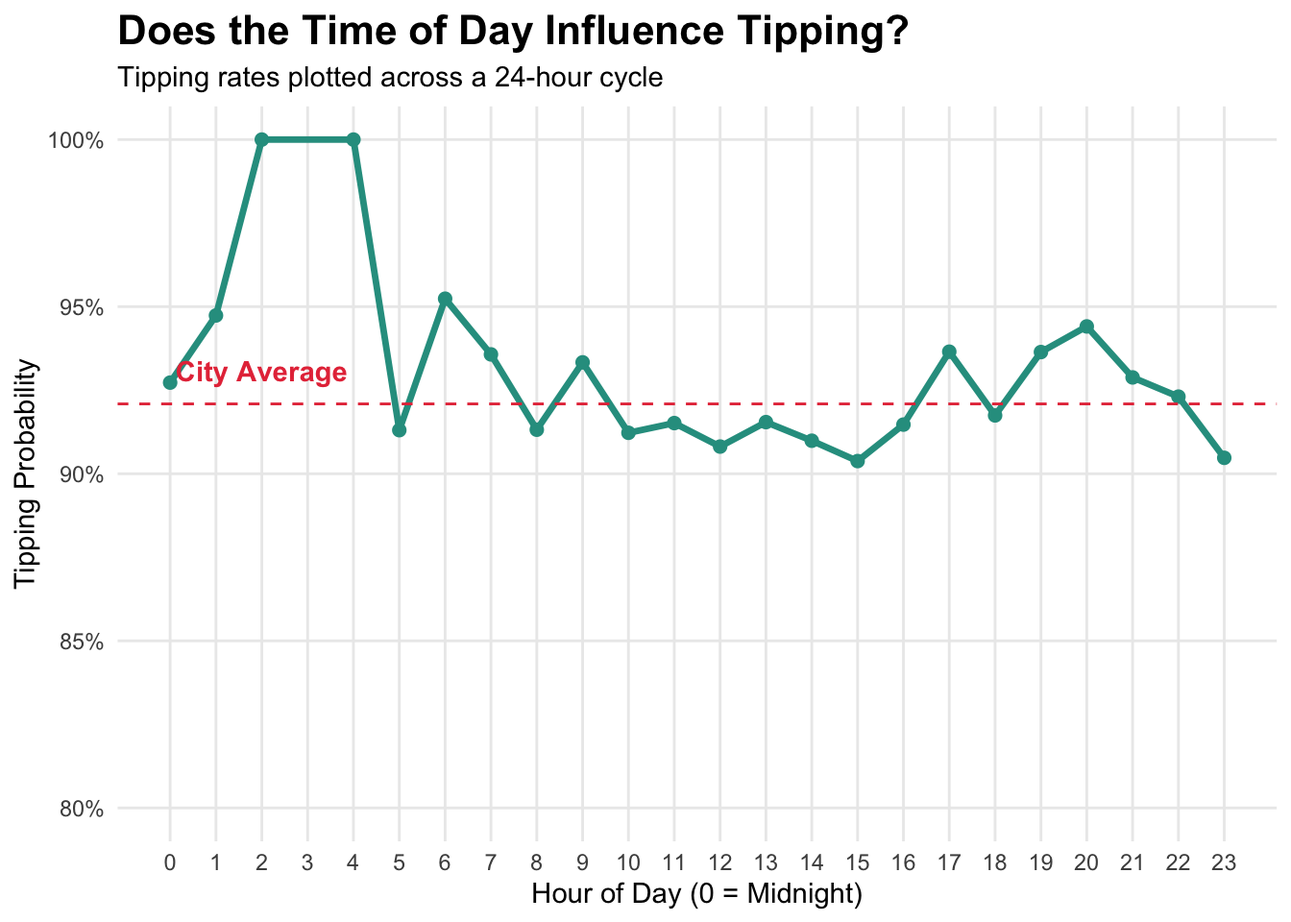
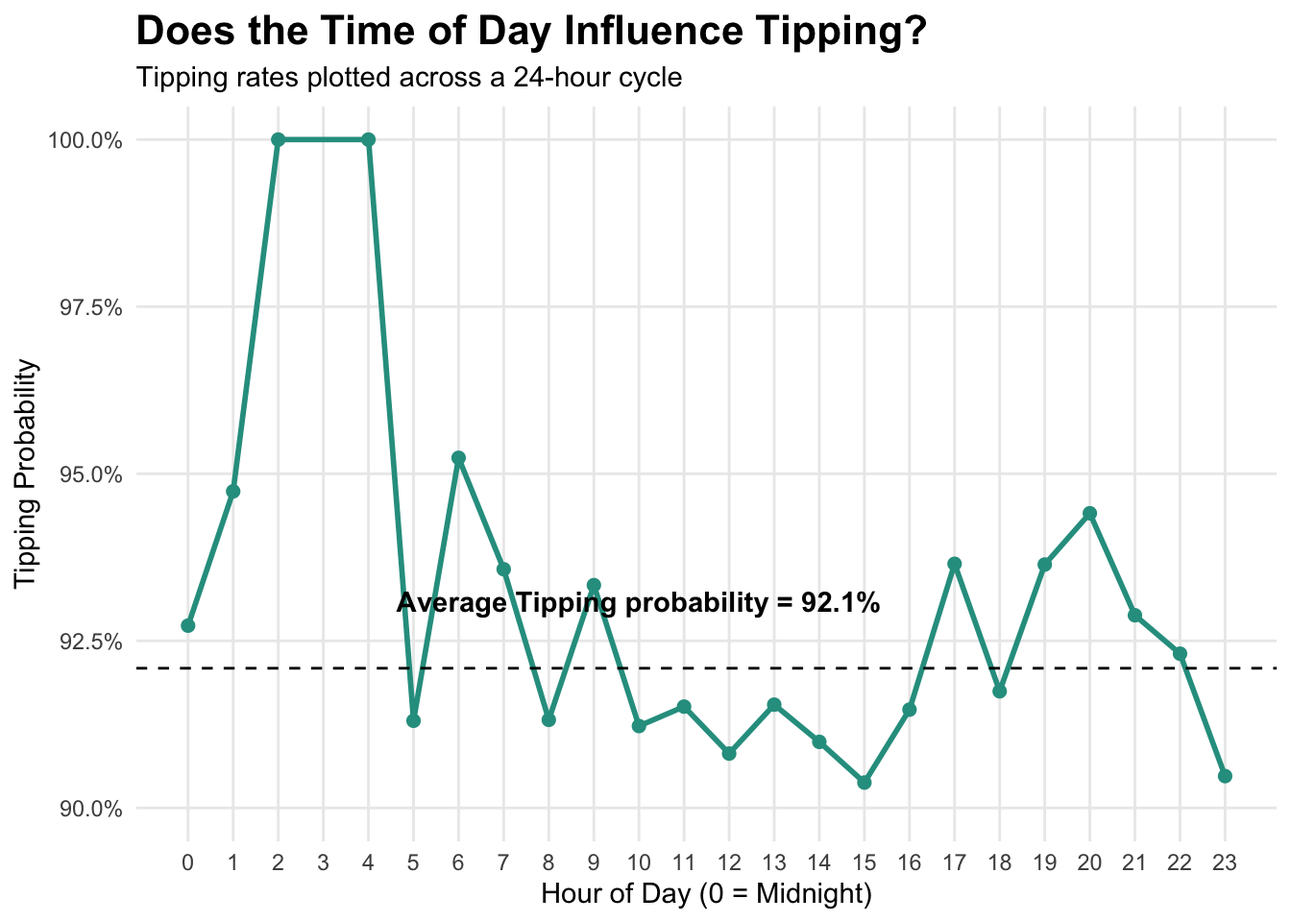
completed analysis of all 3 questions

diff --git a/index.html b/index.html
@@ -21,41 +21,6 @@ ul.task-list li input[type="checkbox"] {
   margin: 0 0.8em 0.2em -1em; /* quarto-specific, see https://github.com/quarto-dev/quarto-cli/issues/4556 */ 
   vertical-align: middle;
 }
-/* CSS for syntax highlighting */
-html { -webkit-text-size-adjust: 100%; }
-pre > code.sourceCode { white-space: pre; position: relative; }
-pre > code.sourceCode > span { display: inline-block; line-height: 1.25; }
-pre > code.sourceCode > span:empty { height: 1.2em; }
-.sourceCode { overflow: visible; }
-code.sourceCode > span { color: inherit; text-decoration: inherit; }
-div.sourceCode { margin: 1em 0; }
-pre.sourceCode { margin: 0; }
-@media screen {
-div.sourceCode { overflow: auto; }
-}
-@media print {
-pre > code.sourceCode { white-space: pre-wrap; }
-pre > code.sourceCode > span { text-indent: -5em; padding-left: 5em; }
-}
-pre.numberSource code
-  { counter-reset: source-line 0; }
-pre.numberSource code > span
-  { position: relative; left: -4em; counter-increment: source-line; }
-pre.numberSource code > span > a:first-child::before
-  { content: counter(source-line);
-    position: relative; left: -1em; text-align: right; vertical-align: baseline;
-    border: none; display: inline-block;
-    -webkit-touch-callout: none; -webkit-user-select: none;
-    -khtml-user-select: none; -moz-user-select: none;
-    -ms-user-select: none; user-select: none;
-    padding: 0 4px; width: 4em;
-  }
-pre.numberSource { margin-left: 3em;  padding-left: 4px; }
-div.sourceCode
-  {   }
-@media screen {
-pre > code.sourceCode > span > a:first-child::before { text-decoration: underline; }
-}
 </style>
 
 
@@ -115,21 +80,20 @@ pre > code.sourceCode > span > a:first-child::before { text-decoration: underlin
 </section>
 <section id="packages" class="level2">
 <h2 class="anchored" data-anchor-id="packages">Packages</h2>
-<div class="cell">
-<div class="sourceCode cell-code" id="cb1"><pre class="sourceCode r code-with-copy"><code class="sourceCode r"><span id="cb1-1"><a href="#cb1-1" aria-hidden="true" tabindex="-1"></a><span class="fu">library</span>(tidyverse)</span>
-<span id="cb1-2"><a href="#cb1-2" aria-hidden="true" tabindex="-1"></a><span class="fu">library</span>(tidymodels)</span>
-<span id="cb1-3"><a href="#cb1-3" aria-hidden="true" tabindex="-1"></a><span class="fu">library</span>(scales)</span></code><button title="Copy to Clipboard" class="code-copy-button"><i class="bi"></i></button></pre></div>
-</div>
+<p>For this <strong>Analysis of Chicago Taxi Trips,</strong> we are using the following packages:</p>
+<ol type="1">
+<li><p><code>tidyverse</code></p></li>
+<li><p><code>tidymodels</code></p></li>
+<li><p><code>scales</code></p></li>
+</ol>
 </section>
 <section id="data-frame" class="level2">
 <h2 class="anchored" data-anchor-id="data-frame">Data Frame</h2>
-<div class="cell">
-<div class="sourceCode cell-code" id="cb2"><pre class="sourceCode r code-with-copy"><code class="sourceCode r"><span id="cb2-1"><a href="#cb2-1" aria-hidden="true" tabindex="-1"></a><span class="fu">library</span>(modeldata)</span></code><button title="Copy to Clipboard" class="code-copy-button"><i class="bi"></i></button></pre></div>
-</div>
+<p>The dataframe that we are using in this analysis is prepackaged in the R library <code>modeldata</code></p>
 <section id="summarize-and-glimpse-of-the-dataset" class="level3">
 <h3 class="anchored" data-anchor-id="summarize-and-glimpse-of-the-dataset">Summarize and glimpse of the dataset</h3>
+<p>The <code>taxi</code> dataframe has <strong>10000</strong> rows and <strong>7</strong> columns.</p>
 <div class="cell">
-<div class="sourceCode cell-code" id="cb3"><pre class="sourceCode r code-with-copy"><code class="sourceCode r"><span id="cb3-1"><a href="#cb3-1" aria-hidden="true" tabindex="-1"></a><span class="fu">glimpse</span>(taxi)</span></code><button title="Copy to Clipboard" class="code-copy-button"><i class="bi"></i></button></pre></div>
 <div class="cell-output cell-output-stdout">
 <pre><code>Rows: 10,000
 Columns: 7
@@ -142,23 +106,11 @@ $ month    &lt;fct&gt; Feb, Mar, Feb, Apr, Mar, Apr, Mar, Jan, Apr, Mar, Mar, Ap
 $ hour     &lt;int&gt; 16, 8, 18, 8, 21, 23, 12, 6, 12, 14, 18, 11, 12, 19, 17, 13, …</code></pre>
 </div>
 </div>
-<p>The <code>taxi</code> dataframe has <strong>10000</strong> rows and <strong>7</strong> columns.</p>
 </section>
 </section>
 <section id="is-there-there-a-relationship-between-the-distance-in-miles-someone-travels-in-a-taxi-and-if-they-tip-or-not" class="level2">
 <h2 class="anchored" data-anchor-id="is-there-there-a-relationship-between-the-distance-in-miles-someone-travels-in-a-taxi-and-if-they-tip-or-not">Is there there a relationship between the distance (in miles) someone travels in a taxi and if they tip or not?</h2>
 <div class="cell">
-<div class="sourceCode cell-code" id="cb5"><pre class="sourceCode r code-with-copy"><code class="sourceCode r"><span id="cb5-1"><a href="#cb5-1" aria-hidden="true" tabindex="-1"></a><span class="co"># Visualization</span></span>
-<span id="cb5-2"><a href="#cb5-2" aria-hidden="true" tabindex="-1"></a><span class="fu">ggplot</span>(taxi, <span class="fu">aes</span>(<span class="at">x =</span> tip, <span class="at">y =</span> distance, <span class="at">fill =</span> tip)) <span class="sc">+</span></span>
-<span id="cb5-3"><a href="#cb5-3" aria-hidden="true" tabindex="-1"></a>  <span class="fu">geom_boxplot</span>() <span class="sc">+</span></span>
-<span id="cb5-4"><a href="#cb5-4" aria-hidden="true" tabindex="-1"></a>  <span class="fu">labs</span>(<span class="at">title =</span> <span class="st">"Relationship between Trip Distance and Tipping"</span>,</span>
-<span id="cb5-5"><a href="#cb5-5" aria-hidden="true" tabindex="-1"></a>       <span class="at">x =</span> <span class="st">"Did the passenger tip?"</span>,</span>
-<span id="cb5-6"><a href="#cb5-6" aria-hidden="true" tabindex="-1"></a>       <span class="at">y =</span> <span class="st">"Distance (miles)"</span>) <span class="sc">+</span></span>
-<span id="cb5-7"><a href="#cb5-7" aria-hidden="true" tabindex="-1"></a>  <span class="fu">theme_minimal</span>() <span class="sc">+</span></span>
-<span id="cb5-8"><a href="#cb5-8" aria-hidden="true" tabindex="-1"></a>  <span class="fu">theme</span>(</span>
-<span id="cb5-9"><a href="#cb5-9" aria-hidden="true" tabindex="-1"></a>    <span class="at">panel.grid.minor =</span> <span class="fu">element_blank</span>(),</span>
-<span id="cb5-10"><a href="#cb5-10" aria-hidden="true" tabindex="-1"></a>    <span class="at">plot.title =</span> <span class="fu">element_text</span>(<span class="at">face =</span> <span class="st">"bold"</span>, <span class="at">size =</span> <span class="dv">16</span>)</span>
-<span id="cb5-11"><a href="#cb5-11" aria-hidden="true" tabindex="-1"></a>  )</span></code><button title="Copy to Clipboard" class="code-copy-button"><i class="bi"></i></button></pre></div>
 <div class="cell-output-display">
 <div>
 <figure class="figure">
@@ -166,12 +118,6 @@ $ hour     &lt;int&gt; 16, 8, 18, 8, 21, 23, 12, 6, 12, 14, 18, 11, 12, 19, 17, 
 </figure>
 </div>
 </div>
-<div class="sourceCode cell-code" id="cb6"><pre class="sourceCode r code-with-copy"><code class="sourceCode r"><span id="cb6-1"><a href="#cb6-1" aria-hidden="true" tabindex="-1"></a><span class="co"># Summary Table</span></span>
-<span id="cb6-2"><a href="#cb6-2" aria-hidden="true" tabindex="-1"></a>mean_median_distance_tipping <span class="ot">&lt;-</span> taxi <span class="sc">|&gt;</span></span>
-<span id="cb6-3"><a href="#cb6-3" aria-hidden="true" tabindex="-1"></a>  <span class="fu">group_by</span>(tip) <span class="sc">|&gt;</span></span>
-<span id="cb6-4"><a href="#cb6-4" aria-hidden="true" tabindex="-1"></a>  <span class="fu">summarize</span>(<span class="at">mean_dist =</span> <span class="fu">mean</span>(distance, <span class="at">na.rm =</span> <span class="cn">TRUE</span>),</span>
-<span id="cb6-5"><a href="#cb6-5" aria-hidden="true" tabindex="-1"></a>            <span class="at">median_dist =</span> <span class="fu">median</span>(distance, <span class="at">na.rm =</span> <span class="cn">TRUE</span>),</span>
-<span id="cb6-6"><a href="#cb6-6" aria-hidden="true" tabindex="-1"></a>            <span class="at">n =</span> <span class="fu">n</span>())</span></code><button title="Copy to Clipboard" class="code-copy-button"><i class="bi"></i></button></pre></div>
 </div>
 <section id="analysis-of-distance-vs.-tipping" class="level3">
 <h3 class="anchored" data-anchor-id="analysis-of-distance-vs.-tipping">Analysis of Distance vs.&nbsp;Tipping</h3>
@@ -186,63 +132,6 @@ $ hour     &lt;int&gt; 16, 8, 18, 8, 21, 23, 12, 6, 12, 14, 18, 11, 12, 19, 17, 
 <section id="do-taxi-passengers-tend-to-tip-more-for-the-company-chicago-independents-than-the-other-companies" class="level2">
 <h2 class="anchored" data-anchor-id="do-taxi-passengers-tend-to-tip-more-for-the-company-chicago-independents-than-the-other-companies">Do taxi passengers tend to tip more for the company Chicago Independents than the other companies?</h2>
 <div class="cell">
-<div class="sourceCode cell-code" id="cb7"><pre class="sourceCode r code-with-copy"><code class="sourceCode r"><span id="cb7-1"><a href="#cb7-1" aria-hidden="true" tabindex="-1"></a><span class="co"># 1. Calculate the overall city average rate (as a decimal)</span></span>
-<span id="cb7-2"><a href="#cb7-2" aria-hidden="true" tabindex="-1"></a>overall_rate <span class="ot">&lt;-</span> <span class="fu">mean</span>(taxi<span class="sc">$</span>tip <span class="sc">==</span> <span class="st">"yes"</span>)</span>
-<span id="cb7-3"><a href="#cb7-3" aria-hidden="true" tabindex="-1"></a></span>
-<span id="cb7-4"><a href="#cb7-4" aria-hidden="true" tabindex="-1"></a><span class="co"># 2. Calculate the tipping rate per company for the labels</span></span>
-<span id="cb7-5"><a href="#cb7-5" aria-hidden="true" tabindex="-1"></a>company_stats <span class="ot">&lt;-</span> taxi <span class="sc">|&gt;</span></span>
-<span id="cb7-6"><a href="#cb7-6" aria-hidden="true" tabindex="-1"></a>  <span class="fu">group_by</span>(company) <span class="sc">|&gt;</span></span>
-<span id="cb7-7"><a href="#cb7-7" aria-hidden="true" tabindex="-1"></a>  <span class="fu">summarize</span>(</span>
-<span id="cb7-8"><a href="#cb7-8" aria-hidden="true" tabindex="-1"></a>    <span class="at">total_rides =</span> <span class="fu">n</span>(),</span>
-<span id="cb7-9"><a href="#cb7-9" aria-hidden="true" tabindex="-1"></a>    <span class="at">yes_count =</span> <span class="fu">sum</span>(tip <span class="sc">==</span> <span class="st">"yes"</span>),</span>
-<span id="cb7-10"><a href="#cb7-10" aria-hidden="true" tabindex="-1"></a>    <span class="at">tip_rate =</span> yes_count <span class="sc">/</span> total_rides</span>
-<span id="cb7-11"><a href="#cb7-11" aria-hidden="true" tabindex="-1"></a>  )</span>
-<span id="cb7-12"><a href="#cb7-12" aria-hidden="true" tabindex="-1"></a></span>
-<span id="cb7-13"><a href="#cb7-13" aria-hidden="true" tabindex="-1"></a>company_stats <span class="ot">&lt;-</span> company_stats <span class="sc">|&gt;</span> </span>
-<span id="cb7-14"><a href="#cb7-14" aria-hidden="true" tabindex="-1"></a>  <span class="fu">arrange</span>(<span class="fu">desc</span>(tip_rate))</span>
-<span id="cb7-15"><a href="#cb7-15" aria-hidden="true" tabindex="-1"></a></span>
-<span id="cb7-16"><a href="#cb7-16" aria-hidden="true" tabindex="-1"></a><span class="co"># 3. Create the Proportional Plot</span></span>
-<span id="cb7-17"><a href="#cb7-17" aria-hidden="true" tabindex="-1"></a><span class="fu">ggplot</span>(taxi, <span class="fu">aes</span>(<span class="at">y =</span> company, <span class="at">fill =</span> tip)) <span class="sc">+</span></span>
-<span id="cb7-18"><a href="#cb7-18" aria-hidden="true" tabindex="-1"></a>  <span class="co"># Create the proportional bars</span></span>
-<span id="cb7-19"><a href="#cb7-19" aria-hidden="true" tabindex="-1"></a>  <span class="fu">geom_bar</span>(<span class="at">position =</span> <span class="st">"fill"</span>) <span class="sc">+</span></span>
-<span id="cb7-20"><a href="#cb7-20" aria-hidden="true" tabindex="-1"></a>  <span class="co"># Add the tip rate labels onto each bar</span></span>
-<span id="cb7-21"><a href="#cb7-21" aria-hidden="true" tabindex="-1"></a>  <span class="fu">geom_text</span>(</span>
-<span id="cb7-22"><a href="#cb7-22" aria-hidden="true" tabindex="-1"></a>    <span class="at">data =</span> company_stats,</span>
-<span id="cb7-23"><a href="#cb7-23" aria-hidden="true" tabindex="-1"></a>    <span class="fu">aes</span>(<span class="at">y =</span> company, <span class="at">x =</span> <span class="fl">0.5</span>, <span class="at">label =</span> <span class="fu">percent</span>(tip_rate, <span class="at">accuracy =</span> <span class="fl">0.1</span>)),</span>
-<span id="cb7-24"><a href="#cb7-24" aria-hidden="true" tabindex="-1"></a>    <span class="at">inherit.aes =</span> <span class="cn">FALSE</span>,</span>
-<span id="cb7-25"><a href="#cb7-25" aria-hidden="true" tabindex="-1"></a>    <span class="at">color =</span> <span class="st">"white"</span>,</span>
-<span id="cb7-26"><a href="#cb7-26" aria-hidden="true" tabindex="-1"></a>    <span class="at">fontface =</span> <span class="st">"bold"</span>,</span>
-<span id="cb7-27"><a href="#cb7-27" aria-hidden="true" tabindex="-1"></a>    <span class="at">size =</span> <span class="dv">4</span></span>
-<span id="cb7-28"><a href="#cb7-28" aria-hidden="true" tabindex="-1"></a>  ) <span class="sc">+</span></span>
-<span id="cb7-29"><a href="#cb7-29" aria-hidden="true" tabindex="-1"></a>  <span class="co"># Add the vertical line for the city average</span></span>
-<span id="cb7-30"><a href="#cb7-30" aria-hidden="true" tabindex="-1"></a>  <span class="fu">geom_vline</span>(<span class="at">xintercept =</span> overall_rate, <span class="at">linetype =</span> <span class="st">"dashed"</span>, <span class="at">color =</span> <span class="st">"white"</span>, <span class="at">size =</span> <span class="dv">1</span>) <span class="sc">+</span></span>
-<span id="cb7-31"><a href="#cb7-31" aria-hidden="true" tabindex="-1"></a>  <span class="co"># Annotate the line with the numerical value</span></span>
-<span id="cb7-32"><a href="#cb7-32" aria-hidden="true" tabindex="-1"></a>  <span class="fu">annotate</span>(</span>
-<span id="cb7-33"><a href="#cb7-33" aria-hidden="true" tabindex="-1"></a>    <span class="st">"text"</span>, </span>
-<span id="cb7-34"><a href="#cb7-34" aria-hidden="true" tabindex="-1"></a>    <span class="at">x =</span> overall_rate, </span>
-<span id="cb7-35"><a href="#cb7-35" aria-hidden="true" tabindex="-1"></a>    <span class="at">y =</span> <span class="fl">0.5</span>, </span>
-<span id="cb7-36"><a href="#cb7-36" aria-hidden="true" tabindex="-1"></a>    <span class="at">label =</span> <span class="fu">paste0</span>(<span class="st">"City Average = "</span>, <span class="fu">percent</span>(overall_rate, <span class="at">accuracy =</span> <span class="fl">0.1</span>)),</span>
-<span id="cb7-37"><a href="#cb7-37" aria-hidden="true" tabindex="-1"></a>    <span class="at">color =</span> <span class="st">"black"</span>, </span>
-<span id="cb7-38"><a href="#cb7-38" aria-hidden="true" tabindex="-1"></a>    <span class="at">vjust =</span> <span class="sc">-</span><span class="fl">0.5</span>, </span>
-<span id="cb7-39"><a href="#cb7-39" aria-hidden="true" tabindex="-1"></a>    <span class="at">hjust =</span> <span class="sc">-</span><span class="fl">0.5</span>,</span>
-<span id="cb7-40"><a href="#cb7-40" aria-hidden="true" tabindex="-1"></a>    <span class="at">angle =</span> <span class="dv">90</span>,</span>
-<span id="cb7-41"><a href="#cb7-41" aria-hidden="true" tabindex="-1"></a>    <span class="at">fontface =</span> <span class="st">"bold"</span></span>
-<span id="cb7-42"><a href="#cb7-42" aria-hidden="true" tabindex="-1"></a>  ) <span class="sc">+</span></span>
-<span id="cb7-43"><a href="#cb7-43" aria-hidden="true" tabindex="-1"></a>  <span class="co"># Clean up scales and labels</span></span>
-<span id="cb7-44"><a href="#cb7-44" aria-hidden="true" tabindex="-1"></a>  <span class="fu">scale_x_continuous</span>(<span class="at">labels =</span> percent) <span class="sc">+</span></span>
-<span id="cb7-45"><a href="#cb7-45" aria-hidden="true" tabindex="-1"></a>  <span class="fu">scale_fill_manual</span>(<span class="at">values =</span> <span class="fu">c</span>(<span class="st">"no"</span> <span class="ot">=</span> <span class="st">"#E63946"</span>, <span class="st">"yes"</span> <span class="ot">=</span> <span class="st">"#2A9D8F"</span>)) <span class="sc">+</span> <span class="co"># Clean vector-style colors</span></span>
-<span id="cb7-46"><a href="#cb7-46" aria-hidden="true" tabindex="-1"></a>  <span class="fu">labs</span>(</span>
-<span id="cb7-47"><a href="#cb7-47" aria-hidden="true" tabindex="-1"></a>    <span class="at">title =</span> <span class="st">"Tipping Rate Comparison by Company"</span>,</span>
-<span id="cb7-48"><a href="#cb7-48" aria-hidden="true" tabindex="-1"></a>    <span class="at">subtitle =</span> <span class="st">"Is Chicago Independents outperforming the city average?"</span>,</span>
-<span id="cb7-49"><a href="#cb7-49" aria-hidden="true" tabindex="-1"></a>    <span class="at">x =</span> <span class="st">"Proportion of Trips"</span>,</span>
-<span id="cb7-50"><a href="#cb7-50" aria-hidden="true" tabindex="-1"></a>    <span class="at">y =</span> <span class="st">"Taxi Company"</span>,</span>
-<span id="cb7-51"><a href="#cb7-51" aria-hidden="true" tabindex="-1"></a>    <span class="at">fill =</span> <span class="st">"Tip Received"</span></span>
-<span id="cb7-52"><a href="#cb7-52" aria-hidden="true" tabindex="-1"></a>  ) <span class="sc">+</span></span>
-<span id="cb7-53"><a href="#cb7-53" aria-hidden="true" tabindex="-1"></a>  <span class="fu">theme_minimal</span>() <span class="sc">+</span></span>
-<span id="cb7-54"><a href="#cb7-54" aria-hidden="true" tabindex="-1"></a>  <span class="fu">theme</span>(</span>
-<span id="cb7-55"><a href="#cb7-55" aria-hidden="true" tabindex="-1"></a>    <span class="at">panel.grid.minor =</span> <span class="fu">element_blank</span>(),</span>
-<span id="cb7-56"><a href="#cb7-56" aria-hidden="true" tabindex="-1"></a>    <span class="at">plot.title =</span> <span class="fu">element_text</span>(<span class="at">face =</span> <span class="st">"bold"</span>, <span class="at">size =</span> <span class="dv">16</span>)</span>
-<span id="cb7-57"><a href="#cb7-57" aria-hidden="true" tabindex="-1"></a>  )</span></code><button title="Copy to Clipboard" class="code-copy-button"><i class="bi"></i></button></pre></div>
 <div class="cell-output-display">
 <div>
 <figure class="figure">
@@ -250,10 +139,6 @@ $ hour     &lt;int&gt; 16, 8, 18, 8, 21, 23, 12, 6, 12, 14, 18, 11, 12, 19, 17, 
 </figure>
 </div>
 </div>
-</div>
-<div class="cell">
-<div class="sourceCode cell-code" id="cb8"><pre class="sourceCode r code-with-copy"><code class="sourceCode r"><span id="cb8-1"><a href="#cb8-1" aria-hidden="true" tabindex="-1"></a>company_stats_by_rides <span class="ot">&lt;-</span> company_stats <span class="sc">|&gt;</span> </span>
-<span id="cb8-2"><a href="#cb8-2" aria-hidden="true" tabindex="-1"></a>  <span class="fu">arrange</span>(<span class="fu">desc</span>(total_rides))</span></code><button title="Copy to Clipboard" class="code-copy-button"><i class="bi"></i></button></pre></div>
 </div>
 <section id="analysis-of-tipping-rate-comparison" class="level3">
 <h3 class="anchored" data-anchor-id="analysis-of-tipping-rate-comparison">Analysis of Tipping Rate Comparison</h3>
@@ -269,39 +154,6 @@ $ hour     &lt;int&gt; 16, 8, 18, 8, 21, 23, 12, 6, 12, 14, 18, 11, 12, 19, 17, 
 <section id="are-passengers-more-likely-to-tip-during-late-night-hours-compared-to-the-rest-of-the-day" class="level2">
 <h2 class="anchored" data-anchor-id="are-passengers-more-likely-to-tip-during-late-night-hours-compared-to-the-rest-of-the-day">Are passengers more likely to tip during late-night hours compared to the rest of the day?</h2>
 <div class="cell">
-<div class="sourceCode cell-code" id="cb9"><pre class="sourceCode r code-with-copy"><code class="sourceCode r"><span id="cb9-1"><a href="#cb9-1" aria-hidden="true" tabindex="-1"></a><span class="co"># 1. Calculate tip rate by hour</span></span>
-<span id="cb9-2"><a href="#cb9-2" aria-hidden="true" tabindex="-1"></a>hourly_tips <span class="ot">&lt;-</span> taxi <span class="sc">|&gt;</span></span>
-<span id="cb9-3"><a href="#cb9-3" aria-hidden="true" tabindex="-1"></a>  <span class="fu">group_by</span>(hour) <span class="sc">|&gt;</span></span>
-<span id="cb9-4"><a href="#cb9-4" aria-hidden="true" tabindex="-1"></a>  <span class="fu">summarize</span>(</span>
-<span id="cb9-5"><a href="#cb9-5" aria-hidden="true" tabindex="-1"></a>    <span class="at">total_rides =</span> <span class="fu">n</span>(),</span>
-<span id="cb9-6"><a href="#cb9-6" aria-hidden="true" tabindex="-1"></a>    <span class="at">tip_rate =</span> <span class="fu">sum</span>(tip <span class="sc">==</span> <span class="st">"yes"</span>) <span class="sc">/</span> total_rides</span>
-<span id="cb9-7"><a href="#cb9-7" aria-hidden="true" tabindex="-1"></a>  )</span>
-<span id="cb9-8"><a href="#cb9-8" aria-hidden="true" tabindex="-1"></a></span>
-<span id="cb9-9"><a href="#cb9-9" aria-hidden="true" tabindex="-1"></a><span class="co"># 2. Geometric Line Plot</span></span>
-<span id="cb9-10"><a href="#cb9-10" aria-hidden="true" tabindex="-1"></a><span class="fu">ggplot</span>(hourly_tips, <span class="fu">aes</span>(<span class="at">x =</span> hour, <span class="at">y =</span> tip_rate)) <span class="sc">+</span></span>
-<span id="cb9-11"><a href="#cb9-11" aria-hidden="true" tabindex="-1"></a>  <span class="co"># Add a subtle shaded area (vector style)</span></span>
-<span id="cb9-12"><a href="#cb9-12" aria-hidden="true" tabindex="-1"></a>  <span class="fu">geom_area</span>(<span class="at">fill =</span> <span class="st">"#2A9D8F"</span>, <span class="at">alpha =</span> <span class="fl">0.2</span>) <span class="sc">+</span> </span>
-<span id="cb9-13"><a href="#cb9-13" aria-hidden="true" tabindex="-1"></a>  <span class="co"># Bold geometric line</span></span>
-<span id="cb9-14"><a href="#cb9-14" aria-hidden="true" tabindex="-1"></a>  <span class="fu">geom_line</span>(<span class="at">color =</span> <span class="st">"#2A9D8F"</span>, <span class="at">size =</span> <span class="fl">1.2</span>) <span class="sc">+</span></span>
-<span id="cb9-15"><a href="#cb9-15" aria-hidden="true" tabindex="-1"></a>  <span class="co"># Points for each hour</span></span>
-<span id="cb9-16"><a href="#cb9-16" aria-hidden="true" tabindex="-1"></a>  <span class="fu">geom_point</span>(<span class="at">color =</span> <span class="st">"#2A9D8F"</span>, <span class="at">size =</span> <span class="dv">2</span>) <span class="sc">+</span></span>
-<span id="cb9-17"><a href="#cb9-17" aria-hidden="true" tabindex="-1"></a>  <span class="co"># Benchmark city average line</span></span>
-<span id="cb9-18"><a href="#cb9-18" aria-hidden="true" tabindex="-1"></a>  <span class="fu">geom_hline</span>(<span class="at">yintercept =</span> overall_rate, <span class="at">linetype =</span> <span class="st">"dashed"</span>, <span class="at">color =</span> <span class="st">"#E63946"</span>) <span class="sc">+</span></span>
-<span id="cb9-19"><a href="#cb9-19" aria-hidden="true" tabindex="-1"></a>  <span class="fu">annotate</span>(<span class="st">"text"</span>, <span class="at">x =</span> <span class="dv">2</span>, <span class="at">y =</span> overall_rate <span class="sc">+</span> <span class="fl">0.01</span>, </span>
-<span id="cb9-20"><a href="#cb9-20" aria-hidden="true" tabindex="-1"></a>           <span class="at">label =</span> <span class="st">"City Average"</span>, <span class="at">color =</span> <span class="st">"#E63946"</span>, <span class="at">fontface =</span> <span class="st">"bold"</span>) <span class="sc">+</span></span>
-<span id="cb9-21"><a href="#cb9-21" aria-hidden="true" tabindex="-1"></a>  <span class="fu">scale_y_continuous</span>(<span class="at">labels =</span> percent, <span class="at">limits =</span> <span class="fu">c</span>(<span class="fl">0.8</span>, <span class="dv">1</span>)) <span class="sc">+</span></span>
-<span id="cb9-22"><a href="#cb9-22" aria-hidden="true" tabindex="-1"></a>  <span class="fu">scale_x_continuous</span>(<span class="at">breaks =</span> <span class="dv">0</span><span class="sc">:</span><span class="dv">23</span>) <span class="sc">+</span></span>
-<span id="cb9-23"><a href="#cb9-23" aria-hidden="true" tabindex="-1"></a>  <span class="fu">labs</span>(</span>
-<span id="cb9-24"><a href="#cb9-24" aria-hidden="true" tabindex="-1"></a>    <span class="at">title =</span> <span class="st">"Does the Time of Day Influence Tipping?"</span>,</span>
-<span id="cb9-25"><a href="#cb9-25" aria-hidden="true" tabindex="-1"></a>    <span class="at">subtitle =</span> <span class="st">"Tipping rates plotted across a 24-hour cycle"</span>,</span>
-<span id="cb9-26"><a href="#cb9-26" aria-hidden="true" tabindex="-1"></a>    <span class="at">x =</span> <span class="st">"Hour of Day (0 = Midnight)"</span>,</span>
-<span id="cb9-27"><a href="#cb9-27" aria-hidden="true" tabindex="-1"></a>    <span class="at">y =</span> <span class="st">"Tipping Probability"</span></span>
-<span id="cb9-28"><a href="#cb9-28" aria-hidden="true" tabindex="-1"></a>  ) <span class="sc">+</span></span>
-<span id="cb9-29"><a href="#cb9-29" aria-hidden="true" tabindex="-1"></a>  <span class="fu">theme_minimal</span>() <span class="sc">+</span></span>
-<span id="cb9-30"><a href="#cb9-30" aria-hidden="true" tabindex="-1"></a>  <span class="fu">theme</span>(</span>
-<span id="cb9-31"><a href="#cb9-31" aria-hidden="true" tabindex="-1"></a>    <span class="at">panel.grid.minor =</span> <span class="fu">element_blank</span>(), </span>
-<span id="cb9-32"><a href="#cb9-32" aria-hidden="true" tabindex="-1"></a>    <span class="at">plot.title =</span> <span class="fu">element_text</span>(<span class="at">face =</span> <span class="st">"bold"</span>, <span class="at">size =</span> <span class="dv">16</span>)</span>
-<span id="cb9-33"><a href="#cb9-33" aria-hidden="true" tabindex="-1"></a>    )</span></code><button title="Copy to Clipboard" class="code-copy-button"><i class="bi"></i></button></pre></div>
 <div class="cell-output-display">
 <div>
 <figure class="figure">
@@ -310,6 +162,13 @@ $ hour     &lt;int&gt; 16, 8, 18, 8, 21, 23, 12, 6, 12, 14, 18, 11, 12, 19, 17, 
 </div>
 </div>
 </div>
+<p>The temporal data reveals the hourly fluctuation in tipping behavior in Chicago taxis throughout the day, showing distinct peaks during late-night and early-morning hours.</p>
+<ol type="1">
+<li><p><strong>The Happy Hours:</strong> Interestingly, the highest tipping rates occur in the very early morning. Both <strong>2:00 AM</strong> and <strong>4:00 AM</strong> show a tipping rate of <strong>100%</strong> (though it should be noted these hours have lower ride volumes of <strong>13 and 8</strong> respectively).</p></li>
+<li><p><strong>Dip during noon:</strong> The tipping rate fluctuates during high ride-volume periods. For instance, at <strong>12:00 PM</strong> (noon), when ride volume is high (<strong>664</strong> rides), the tip rate dips to <strong>90.8%</strong>.</p></li>
+<li><p><strong>Evening Surge:</strong> Towards the end of the day, the tipping rate tends to increase. From <strong>5:00 PM (17:00)</strong> to <strong>8:00 PM (20:00)</strong>, the tipping rate rises from <strong>93.7%</strong> to <strong>94.4%</strong>.</p></li>
+</ol>
+<p>Therefore, time of the ride seems to influence tipping. Passengers during the late evening and early morning hours tend to tip at rates higher than Chicago’s average tipping probability of <strong>92.1%</strong>. Further, the “perfect” scores at 2:00 AM and 4:00 AM are more likely to be skewed by low sample sizes. However, the general expected trend is for the evening and mid-night passengers to be more consistent tippers than their mid-day counterparts.</p>
 </section>
 
 </main>
